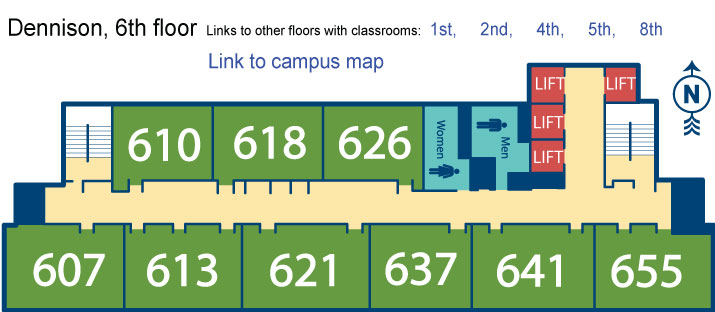
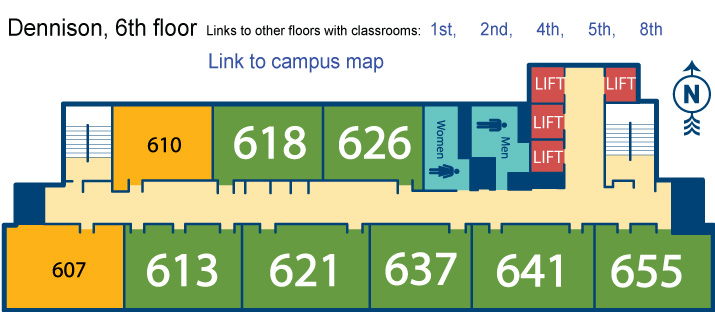
updated maps and added chairs diagrams

Changed region(s): [[0.0, 0.7212, 0.1846, 1.0], [0.1538, 0.3173, 0.3077, 0.6346]]

diff --git a/public/maps/denn6.html b/public/maps/denn6.html
@@ -13,8 +13,6 @@
   <area shape="rect" coords="586,19,618,41" href="denn5.html" target="_self" alt="Link to 5th floor" title="Link to 5th floor" />
   <area shape="rect" coords="636,20,668,42" href="denn8.html" target="_self" alt="Link to 8th floor" title="Link to 8th floor" />
   <area shape="rect" coords="205,51,385,75" href="diag.html" target="_self" alt="Link to campus map" title="Link to campus map" />
-  <area shape="rect" coords="9,230,122,306" href="../classrooms/DENN607" target="_self" alt="Link to data room 607" title="Link to data room 607" />
-  <area shape="rect" coords="113,105,207,178" href="../classrooms/DENN610" target="_self" alt="Link to data room 610" title="Link to data room 610" />
   <area shape="rect" coords="126,230,239,306" href="../classrooms/DENN613" target="_self" alt="Link to data room 613" title="Link to data room 613" />
   <area shape="rect" coords="218,107,317,178" href="../classrooms/DENN618" target="_self" alt="Link to data room 618" title="Link to data room 618" />
   <area shape="rect" coords="245,230,366,306" href="../classrooms/DENN621" target="_self" alt="Link to data room 621" title="Link to data room 621" />
